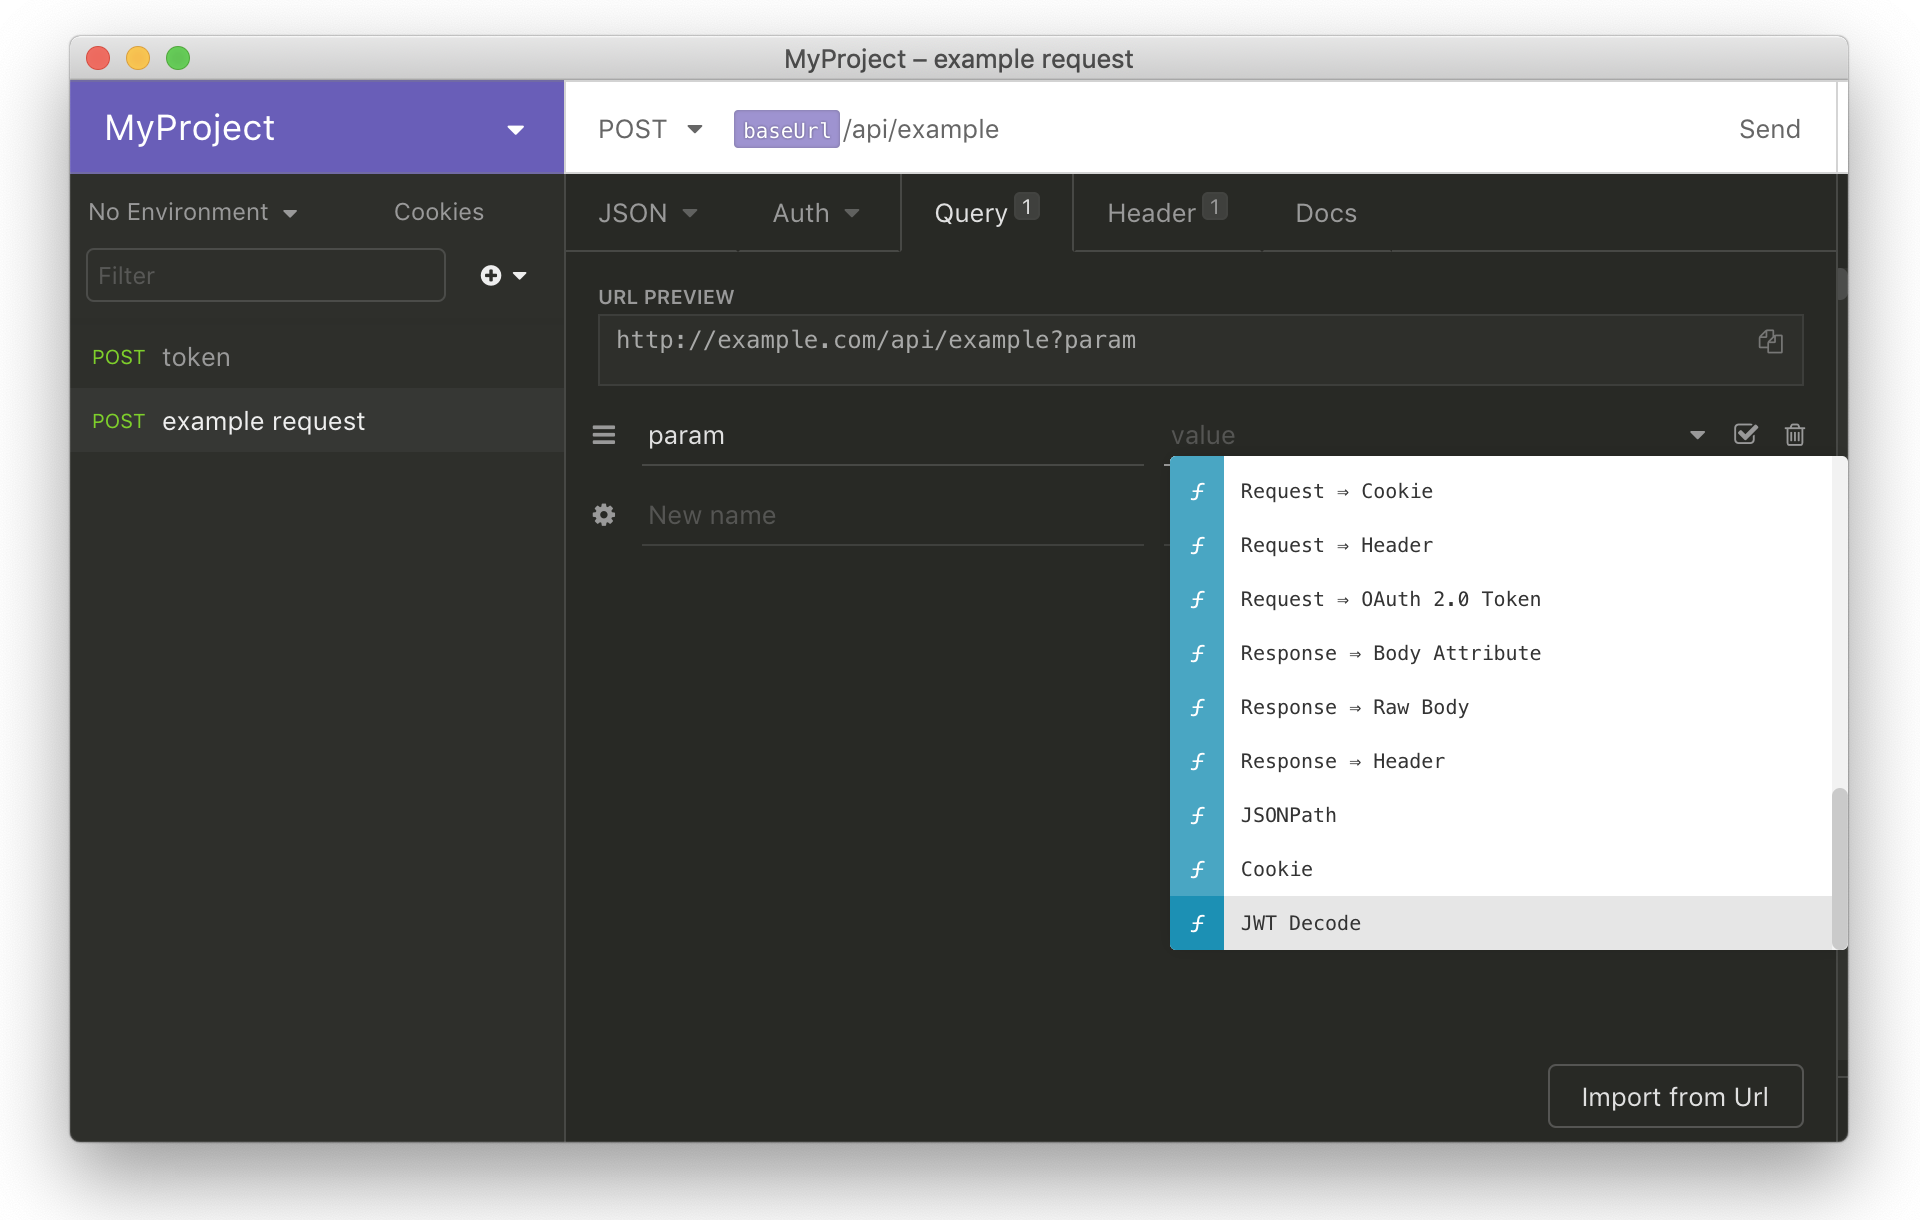
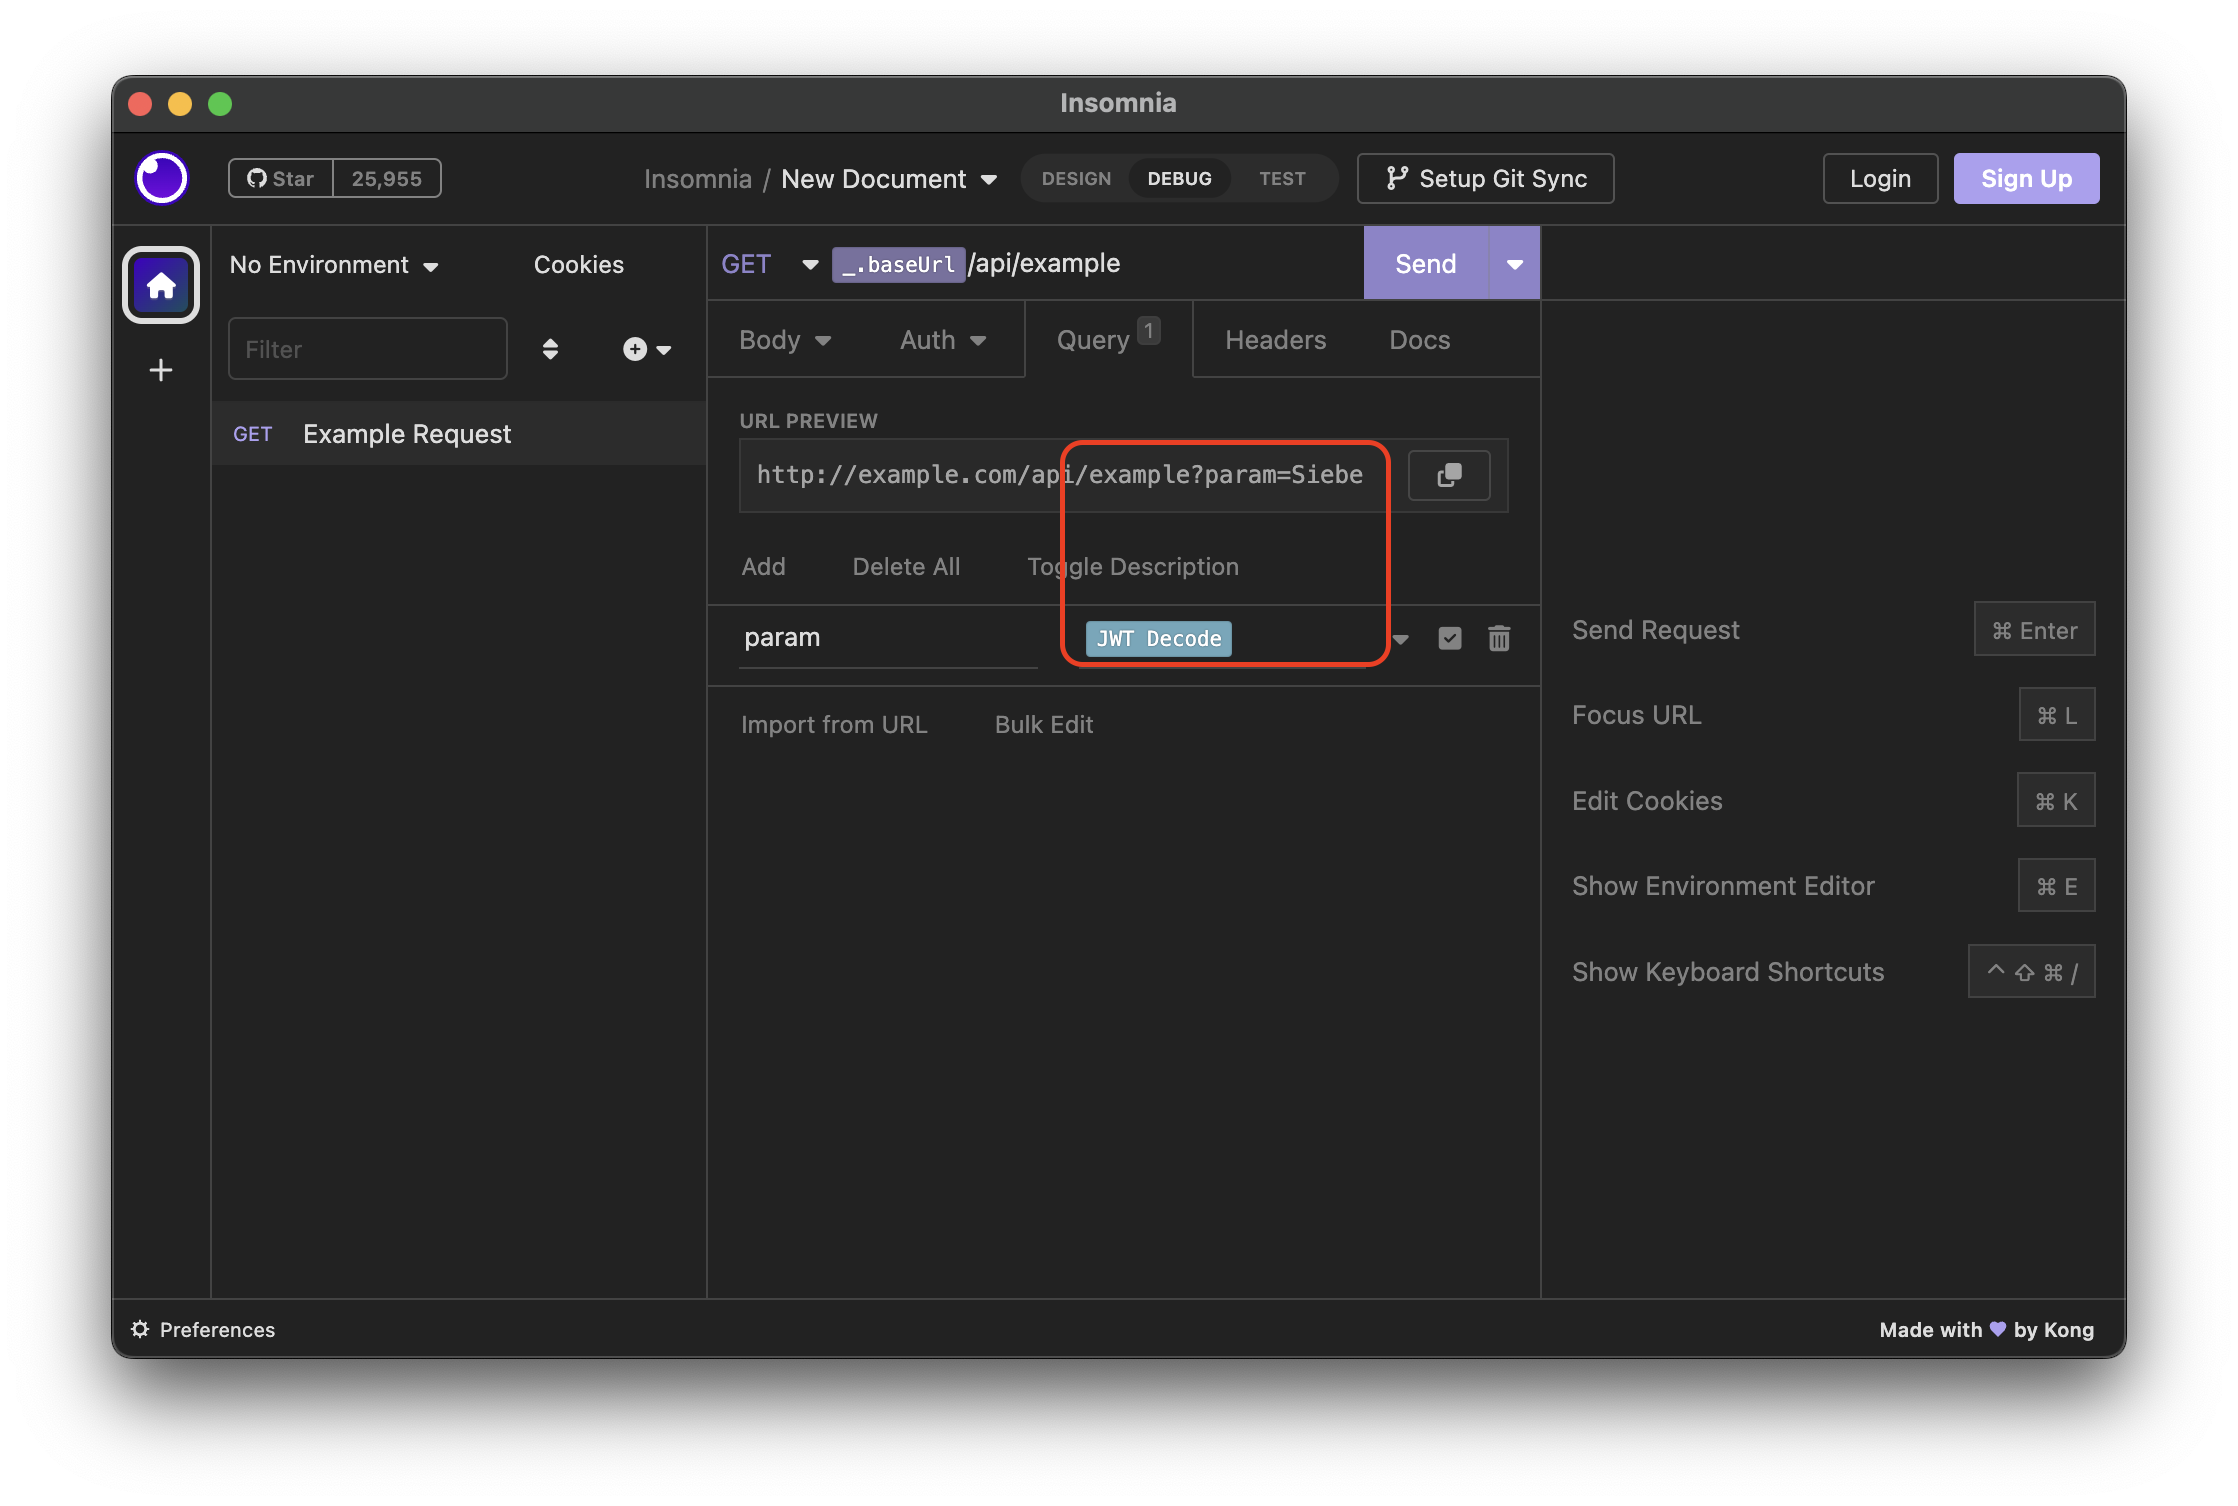
Update README and screenshots

diff --git a/README.md b/README.md
@@ -6,40 +6,16 @@ This is a plugin for the [Insomnia REST client](https://insomnia.rest/) to decod
 
 ## Decoding Usage
 
-At the time of writing (Insomnia 6.0.2), it is not possible to reference the JWT token from a body attribute of another request directly in the JWT Decode plugin. However, we can add the JWT token as an environment variable and reference that.
+At the time of writing (Insomnia 2022.7.1), it is not possible to reference the JWT token from a body attribute of another request directly in the JWT Decode plugin. However, we can add the JWT token as an environment variable and reference that.
 
-![Adding the body attribute empty](https://raw.githubusercontent.com/SiebeSysmans/insomnia-plugin-jwtdecode/master/screenshot/1.png)
+![Referencing the JWT token from another request](https://raw.githubusercontent.com/SiebeSysmans/insomnia-plugin-jwtdecode/master/screenshot/1.png)
 
-![Adding the body attribute popup](https://raw.githubusercontent.com/SiebeSysmans/insomnia-plugin-jwtdecode/master/screenshot/2.png)
+![Adding the variable empty](https://raw.githubusercontent.com/SiebeSysmans/insomnia-plugin-jwtdecode/master/screenshot/2.png)
 
-![Adding the body attribute added](https://raw.githubusercontent.com/SiebeSysmans/insomnia-plugin-jwtdecode/master/screenshot/3.png)
+![Adding the variable popup](https://raw.githubusercontent.com/SiebeSysmans/insomnia-plugin-jwtdecode/master/screenshot/3.png)
 
-![Adding the variable empty](https://raw.githubusercontent.com/SiebeSysmans/insomnia-plugin-jwtdecode/master/screenshot/4.png)
-
-![Adding the variable popup](https://raw.githubusercontent.com/SiebeSysmans/insomnia-plugin-jwtdecode/master/screenshot/5.png)
-
-![Adding the variable added](https://raw.githubusercontent.com/SiebeSysmans/insomnia-plugin-jwtdecode/master/screenshot/6.png)
+![Adding the variable added](https://raw.githubusercontent.com/SiebeSysmans/insomnia-plugin-jwtdecode/master/screenshot/4.png)
 
 # License
 
-    MIT License
-
-    Copyright (c) 2018 Siebe Sysmans
-
-    Permission is hereby granted, free of charge, to any person obtaining a copy
-    of this software and associated documentation files (the "Software"), to deal
-    in the Software without restriction, including without limitation the rights
-    to use, copy, modify, merge, publish, distribute, sublicense, and/or sell
-    copies of the Software, and to permit persons to whom the Software is
-    furnished to do so, subject to the following conditions:
-
-    The above copyright notice and this permission notice shall be included in all
-    copies or substantial portions of the Software.
-
-    THE SOFTWARE IS PROVIDED "AS IS", WITHOUT WARRANTY OF ANY KIND, EXPRESS OR
-    IMPLIED, INCLUDING BUT NOT LIMITED TO THE WARRANTIES OF MERCHANTABILITY,
-    FITNESS FOR A PARTICULAR PURPOSE AND NONINFRINGEMENT. IN NO EVENT SHALL THE
-    AUTHORS OR COPYRIGHT HOLDERS BE LIABLE FOR ANY CLAIM, DAMAGES OR OTHER
-    LIABILITY, WHETHER IN AN ACTION OF CONTRACT, TORT OR OTHERWISE, ARISING FROM,
-    OUT OF OR IN CONNECTION WITH THE SOFTWARE OR THE USE OR OTHER DEALINGS IN THE
-    SOFTWARE.
+[MIT](LICENSE)
